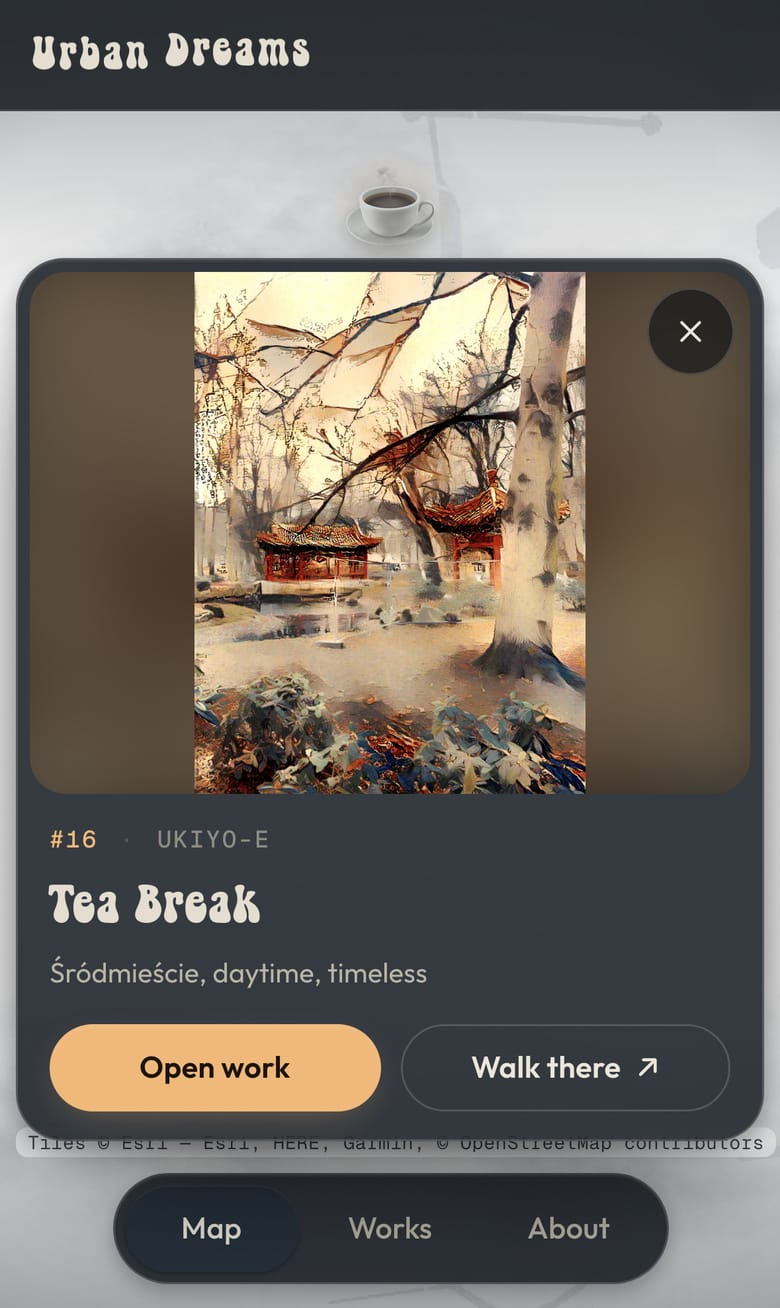
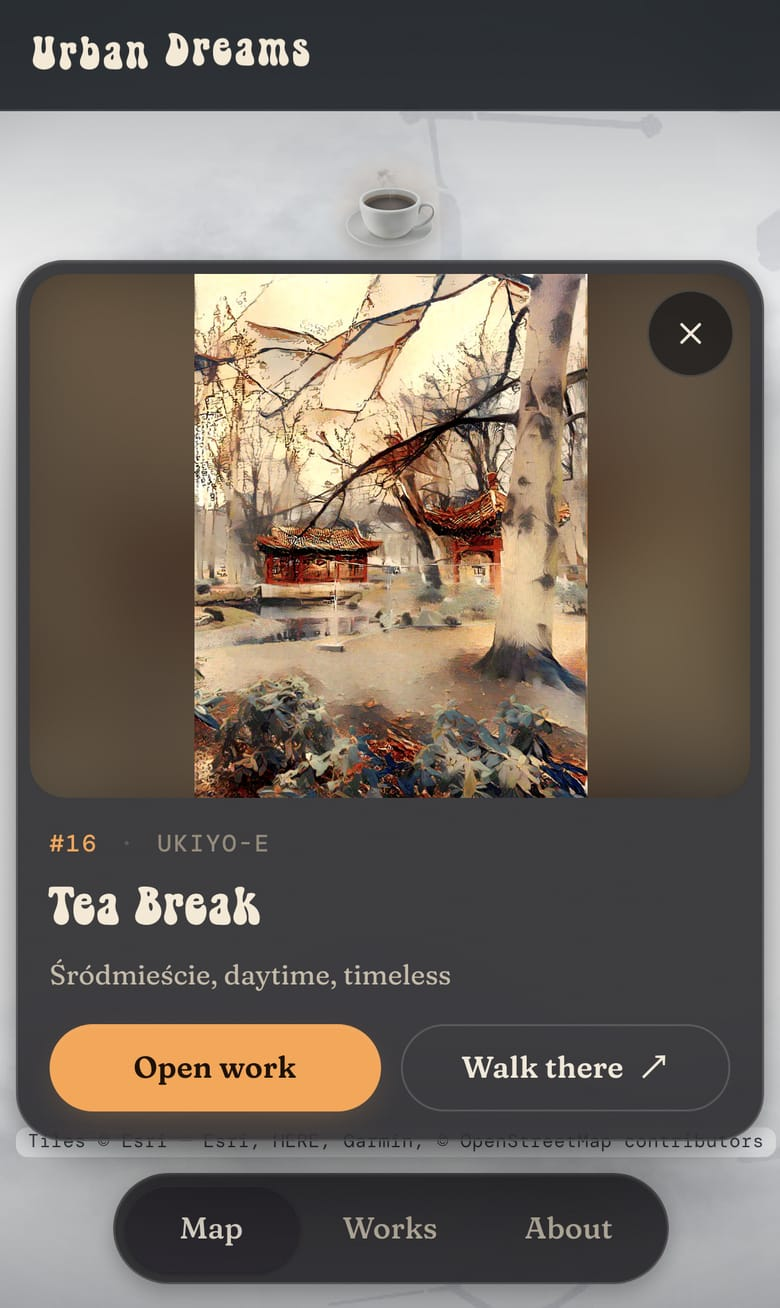
feat(design): sodium-night palette and a 70s type pairing
Warm ink surfaces, paper text and a single light source — the orange of Warsaw's sodium street lamps — replace the cool navy and the blue second accent. Retro Cookies now pairs with Fraunces (soft axis, a 70s soft serif from the same lineage) for reading and DM Mono for data. Links and focus use the lamp colour.

diff --git a/src/styles/tokens.css b/src/styles/tokens.css
@@ -10,41 +10,44 @@
 }
 
 :root {
-  /* ---------- Colour: night surfaces ---------- */
-  --bg: #0e1217;
-  --surface-1: #151b22;
-  --surface-2: #1c242d;
-  --surface-3: #26303b;
-  --surface-sunken: #0a0d11;
-  --surface-glass: rgb(21 27 34 / 0.86);
+  /* ---------- Colour: "sodium night" ----------
+   Warm ink surfaces, paper text and ONE light source: the orange of Warsaw's sodium street lamps.
+   The only cool tone is the river on the map. Everything else is a shade of the same warm night. */
+  --bg: #131215;
+  --surface-1: #1a191d;
+  --surface-2: #222126;
+  --surface-3: #2d2b31;
+  --surface-sunken: #0d0c0f;
+  --surface-glass: rgb(26 25 29 / 0.84);
 
-  --line: rgb(236 230 218 / 0.1);
-  --line-strong: rgb(236 230 218 / 0.18);
+  --line: rgb(240 232 217 / 0.09);
+  --line-strong: rgb(240 232 217 / 0.17);
 
-  /* Warm "paper" text, all >= 4.5:1 on --surface-1 */
-  --text-1: #ece6da;
-  --text-2: #b9b3a7;
-  --text-3: #8f897f;
-  --text-display: #e4ddd0;
+  /* Paper text, all >= 4.5:1 on --surface-1 */
+  --text-1: #f0e8d9;
+  --text-2: #c4baa8;
+  --text-3: #938a79;
+  --text-display: #f3e9d6;
 
-  /* Lantern: the one warm light. Primary actions + the selected pin. */
-  --accent: #f0b87a;
-  --accent-hover: #f6c993;
-  --accent-press: #e3a663;
-  --accent-ink: #1b140c;
-  --accent-soft: rgb(240 184 122 / 0.14);
-  --accent-glow: rgb(240 184 122 / 0.45);
+  /* Sodium: the street-lamp light. Primary action, selection, focus. */
+  --accent: #f2a65a;
+  --accent-hover: #f7b97a;
+  --accent-press: #e3914a;
+  --accent-ink: #1d1209;
+  --accent-soft: rgb(242 166 90 / 0.13);
+  --accent-glow: rgb(242 166 90 / 0.42);
 
-  /* Mist: links, focus, information */
-  --mist: #93bde3;
-  --mist-soft: rgb(147 189 227 / 0.14);
+  /* River: the single cool counterpoint (map water, info) */
+  --river: #1f2a33;
+  --mist: #a9bfcc;
 
-  --focus-ring: 0 0 0 2px var(--bg), 0 0 0 4px var(--mist);
+  --focus-ring: 0 0 0 2px var(--bg), 0 0 0 4px var(--accent);
 
   /* ---------- Typography ---------- */
-  --font-display: 'Retro Cookies', 'Outfit Variable', system-ui, sans-serif;
-  --font-body: 'Outfit Variable', system-ui, -apple-system, 'Segoe UI', Roboto, sans-serif;
-  --font-mono: 'Geist Mono Variable', ui-monospace, 'SF Mono', Menlo, monospace;
+  /* One era, three voices: 70s groovy display, 70s soft serif for reading, a soft mono for data */
+  --font-display: 'Retro Cookies', 'Fraunces Variable', Georgia, serif;
+  --font-body: 'Fraunces Variable', Georgia, 'Times New Roman', serif;
+  --font-mono: 'DM Mono', ui-monospace, 'SF Mono', Menlo, monospace;
 
   /* Fluid scale: min @ 360px → max @ 1440px */
   --fs-display-xl: clamp(3rem, 2.1rem + 4vw, 5.5rem);
@@ -59,7 +62,7 @@
 
   --lh-tight: 1.05;
   --lh-snug: 1.3;
-  --lh-body: 1.65;
+  --lh-body: 1.6;
   --tracking-mono: 0.08em;
 
   /* ---------- Shape ---------- */

diff --git a/src/styles/base.css b/src/styles/base.css
@@ -18,11 +18,13 @@ body {
   font-family: var(--font-body);
   font-size: var(--fs-body);
   line-height: var(--lh-body);
+  /* Fraunces: fully soft corners to rhyme with the display face, optical size follows font size */
+  font-variation-settings: 'SOFT' 100;
+  font-optical-sizing: auto;
   color: var(--text-1);
   /* Two soft city lights in the night: warm lantern low-left, cool mist top-right */
   background:
-    radial-gradient(1100px 620px at 88% -12%, rgb(147 189 227 / 0.07), transparent 62%),
-    radial-gradient(900px 560px at -8% 108%, rgb(240 184 122 / 0.06), transparent 60%),
+    radial-gradient(1000px 560px at 50% -14%, rgb(242 166 90 / 0.07), transparent 62%),
     var(--bg);
   background-attachment: fixed;
   -webkit-font-smoothing: antialiased;
@@ -185,8 +187,8 @@ p {
 }
 
 .button:hover {
-  --_bg: rgb(236 230 218 / 0.06);
-  --_bd: rgb(236 230 218 / 0.28);
+  --_bg: rgb(240 232 217 / 0.06);
+  --_bd: rgb(240 232 217 / 0.28);
 }
 
 .button:active {
@@ -271,7 +273,7 @@ button.chip:active {
 }
 
 .chip[aria-pressed='true'] {
-  border-color: rgb(240 184 122 / 0.55);
+  border-color: rgb(242 166 90 / 0.55);
   background: var(--accent-soft);
   color: var(--accent);
 }
@@ -286,14 +288,16 @@ button.chip:active {
 }
 
 .link {
-  color: var(--mist);
+  color: var(--text-1);
   text-decoration: underline;
-  text-decoration-color: rgb(147 189 227 / 0.35);
+  text-decoration-color: rgb(242 166 90 / 0.5);
+  text-decoration-thickness: 1px;
   text-underline-offset: 0.22em;
   transition: text-decoration-color var(--dur-1);
 }
 
 .link:hover {
+  color: var(--accent);
   text-decoration-color: currentColor;
 }
 

diff --git a/src/main.tsx b/src/main.tsx
@@ -1,8 +1,9 @@
 import { StrictMode } from 'react';
 import { createRoot } from 'react-dom/client';
 import { RouterProvider } from 'react-router/dom';
-import '@fontsource-variable/outfit';
-import '@fontsource-variable/geist-mono';
+import '@fontsource-variable/fraunces/soft.css';
+import '@fontsource/dm-mono/latin-400.css';
+import '@fontsource/dm-mono/latin-500.css';
 import './styles/tokens.css';
 import './styles/base.css';
 import { router } from './router.tsx';
